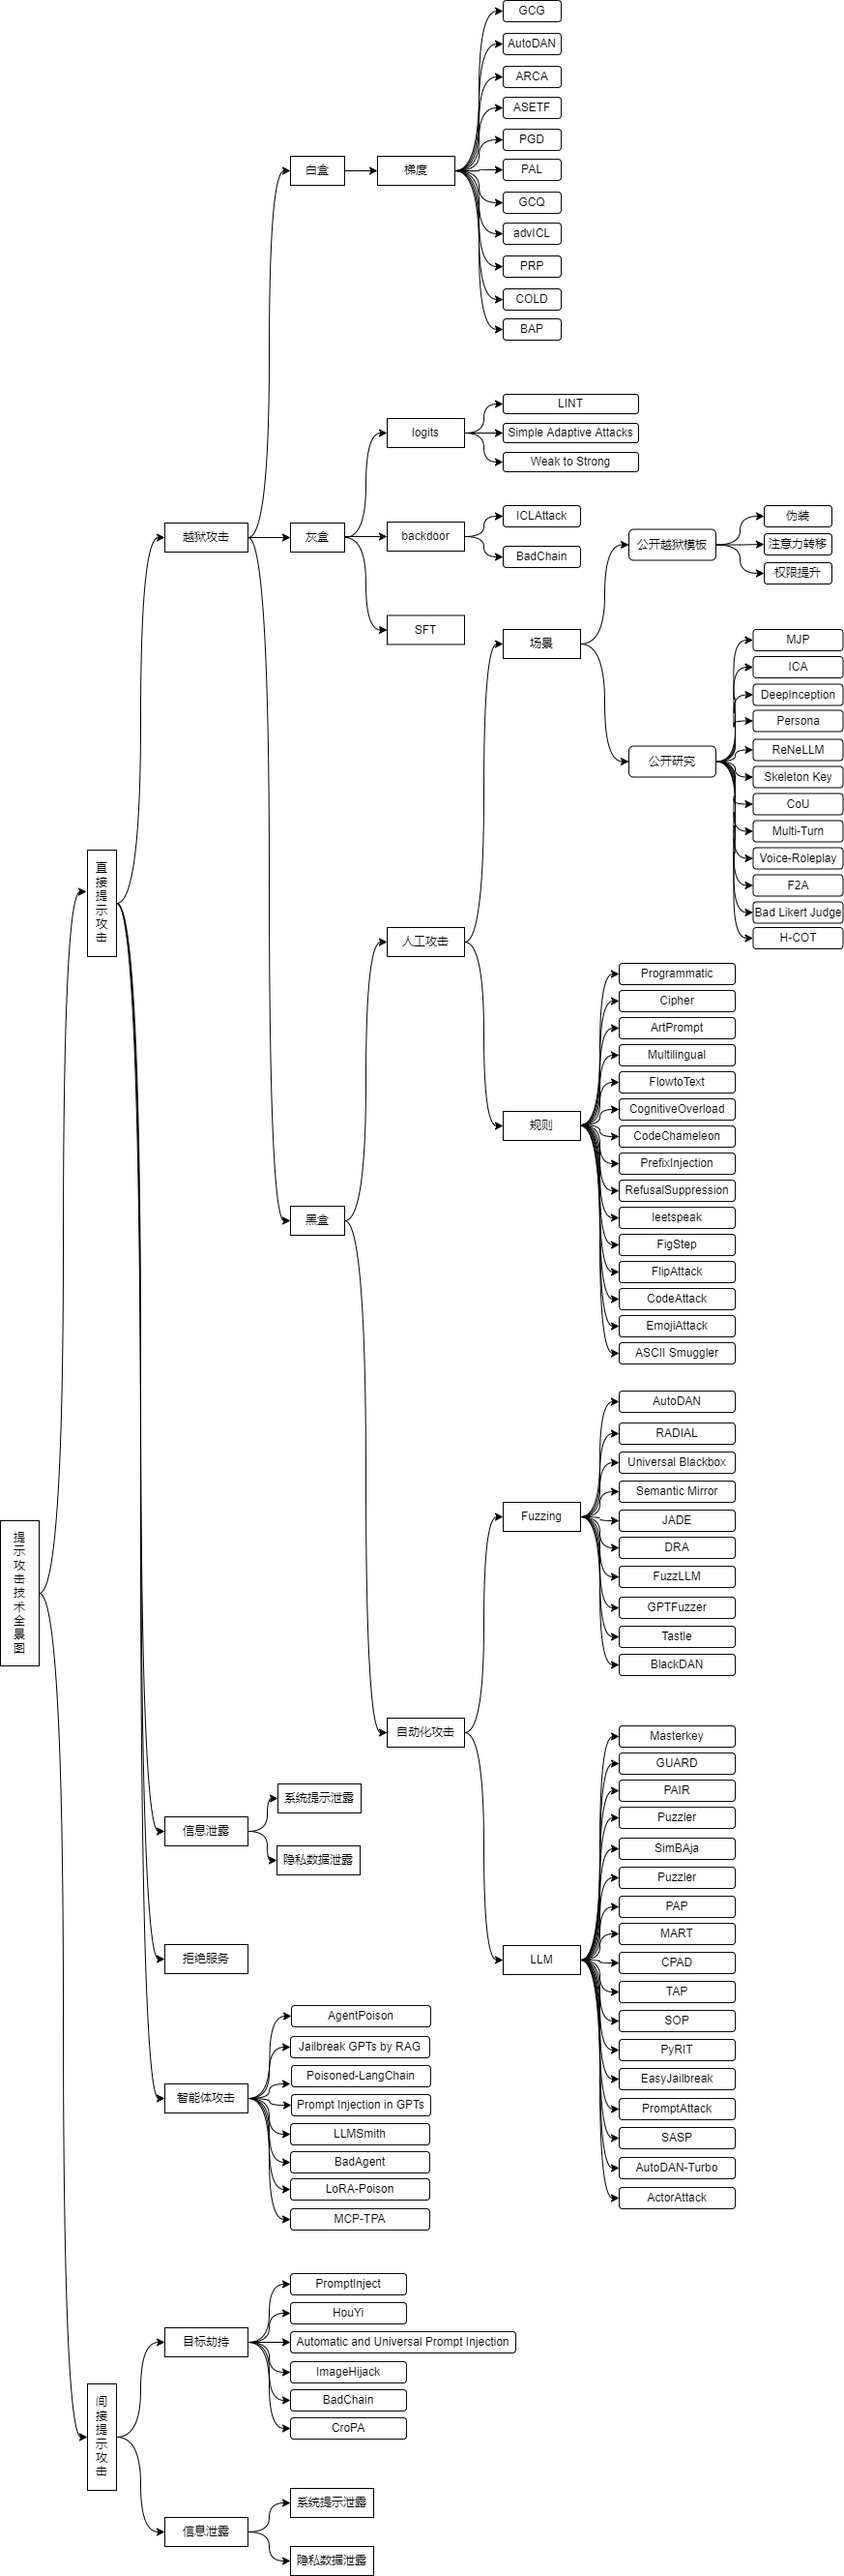
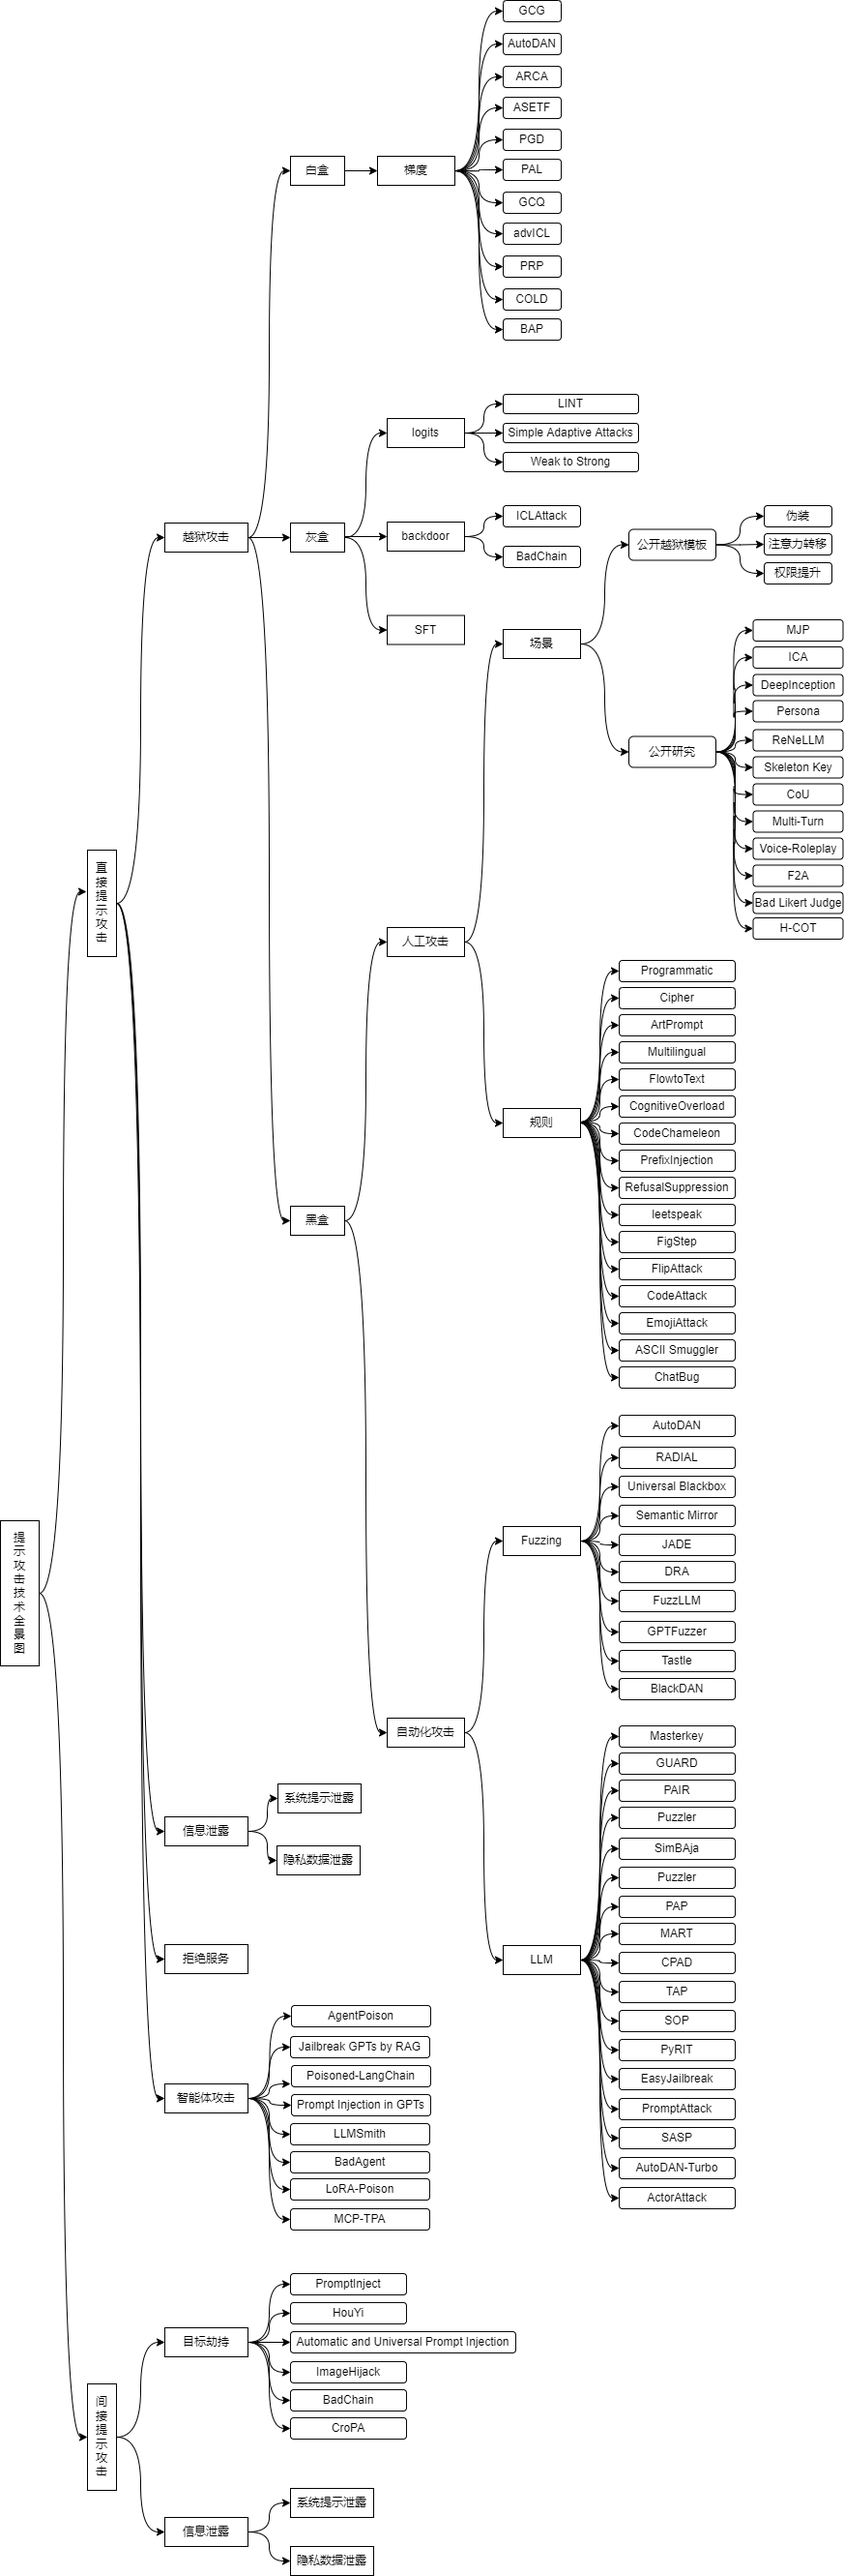
add smolagents introduction

Changed region(s): [[0.6804, 0.3742, 0.866, 0.6548], [0.7423, 0.2183, 1.0, 0.3742], [0.5567, 0.5924, 0.5876, 0.6236]]

diff --git a/_posts/2025-07-04-smolagents-introduction.md b/_posts/2025-07-04-smolagents-introduction.md
@@ -1,0 +1,118 @@
+---
+title: SmolAgents Introduction
+layout: post
+categories: llm
+tags: llm
+date: 2025-07-04 08:00
+excerpt: SmolAgents Introduction
+---
+
+{:.table-of-content}
+* TOC
+{:toc}
+
+# SmolAgents Introduction
+
+## 引言
+在人工智能快速发展的今天，AI Agent（智能体）已成为连接大语言模型能力与现实世界任务的重要桥梁。然而，现有的Agent框架往往过于复杂，学习成本高，部署困难。为了解决这些痛点，HuggingFace推出了Smolagents，它是一个简单、轻量、功能强大的`AI Agent`框架
+
+## 特点
+### 轻量
+代码少，项目结构简单
+### CodeAgent
+`Thinking in Code`，与以往通过`json`调用工具不同，`CodeAgent`通过编写`python`代码来完成任务、调用工具，可实现多种工具的组合调用。国内知道创宇近期也推出了他们的Agent框架（AiPy），使用所谓`Python-Use`范式，比`CodeAgent`更进一步，不需要工具（虽然也支持MCP），所有一切都用`python`代码实现
+- 支持多种大模型
+    - InferenceClientModel: Uses Hugging Face’s Inference API to access models
+    - TransformersModel: Runs models locally using the Transformers library
+    - VLLMModel: Uses vLLM for fast inference with optimized serving
+    - MLXModel: Optimized for Apple Silicon devices using MLX
+    - LiteLLMModel: Provides access to hundreds of LLMs through LiteLLM
+    - LiteLLMRouterModel: Distributes requests among multiple models
+    - OpenAIServerModel: Provides access to any provider that implements an OpenAI-compatible API
+    - AzureOpenAIServerModel: Uses Azure’s OpenAI service
+    - AmazonBedrockServerModel: Connects to AWS Bedrock’s API
+### 支持MCP
+可为agent添加mcp服务，支持`stdio`、`http stream`和`sse`
+### 多模态支持
+可以发送多模态消息（需要大模型支持）
+    - `vision_web_browser.py`：它实现了一个简单的大模型操作浏览器的代理，利用`helium`操作浏览器并截图发送给大模型
+    - `default_tools.py`：在内置工具集里面实现了一个`SpeechToTextTool`的工具，调用`whisper`模型将语音转为文字
+### 多智能体
+支持集成多个子agent，主agent可像调用工具一样调用子agent，子agent中可以调用工具执行复杂任务，而不会干扰到主agent的会话历史记录
+- 支持多种代码执行方式
+    - local：本地执行
+    - docker：在docker容器中执行
+    - e2b：在e2b沙箱中执行
+    - wasm：在wasm环境中执行（Pyodide + Deno）
+### 观测支持
+使用`Phoenix`和`OpenTelemetry`对大模型的执行进行观测
+- ReAct推理框架
+使用`ReAct`多步推理行动框架，将智能体的行为明确划分为“推理”（Reasoning）和“行动”（Acting）两个阶段，清晰地展现智能体在决策过程中的内部思考过程。在每一步中，智能体首先输出一个明确的“Thought”（思考过程），接着输出一个具体的“Action”（执行的动作），agent执行这个动作并返回“Observation”（观察结果），这一过程不断重复，通过交替的推理和行动过程逐步逼近最终答案
+### 阶段性回顾
+在agent执行过程中可配置阶段性回顾，每执行若干步骤之后，大模型会总结当前进展并重新规划，降低跑偏率
+
+## 案例
+
+### 集成MCP
+在`mcp_client.py`中，`smolagents`将mcp转换为tool供agent使用，例如：
+```python
+with MCPClient(...) as mcp_tools:
+    model = LiteLLMModel(**model_params)
+    agent = CodeAgent(
+        tools=mcp_tools,
+        model=model,
+        additional_authorized_imports=["*"]
+    )
+```
+
+### 执行观测
+- 运行`phoenix`服务
+```shell
+python -m phoenix.server.main serve
+```
+- 在代码中添加
+```python
+from phoenix.otel import register
+from openinference.instrumentation.smolagents import SmolagentsInstrumentor
+
+register()
+SmolagentsInstrumentor().instrument()
+```
+- 观测
+通过浏览器打开`phoenix`服务监听的端口即可查看执行记录
+![](/assets/img/smolagents01.png)
+
+### 开源深度研究
+这个是利用`CodeAgent`对OpenAI深度研究的复现，官方称其在研究任务上具备与OpenAI相近的性能表现，在GAIA验证集上能够达到55%的pass@1准确率，而OpenAI深度研究的成绩为67%
+
+运行`python app.py`，在界面中输入待研究的问题，开始研究
+![](/assets/img/smolagents02.png)
+
+### RAG
+官方在文档中分析了传统RAG的局限以及代理式RAG（Agentic RAG）的长处
+
+传统RAG的不足：
+- 单次检索：如果初始检索结果不佳，则最终生成的内容质量也会受影响
+- 查询与文档不匹配：用户查询（通常是问题）可能与包含答案的文档（通常是陈述）匹配度不佳
+- 有限推理：简单的RAG流程无法实现多步推理或查询优化
+- 上下文窗口限制：检索的文档必须适配模型的上下文窗口
+
+代理式RAG的优势：
+- 查询优化：Agent能够将用户问题转化为便于检索的查询
+- 多次检索：Agent能够根据需要进行多次检索
+- 基于检索推理：Agent能够分析综合从多个来源检索到的信息得出最终结论
+- 自我改进：Agent能够评估检索结果并调整其方法
+
+#### 本地RAG示例
+在`example/local_rag`中实现了一个简单的本地`RAG`用例
+- 收集文档
+把文档放入`my_documents`文件夹中
+- 构建RAG数据库
+```shell
+python rag_database_builder.py
+```
+- 运行集成RAG的Agent
+```shell
+python rag_tool.py
+```
+![](/assets/img/smolagents03.png)

diff --git a/_posts/2024-07-30-a-taxonomy-of-LLM-prompt-attack.md b/_posts/2024-07-30-a-taxonomy-of-LLM-prompt-attack.md
@@ -206,7 +206,7 @@ excerpt: A taxonomy of LLM prompt attack
 ![](/assets/img/llm_sec/prompt_attack30.png)
 
 ##### [Skeleton Key](https://www.microsoft.com/en-us/security/blog/2024/06/26/mitigating-skeleton-key-a-new-type-of-generative-ai-jailbreak-technique/)
-微软提出的一种越狱方法，通过多轮会话说服模型改变其行为指南，在生成内容时仅提供警告而非拒绝
+微软提出的一种越狱方法，通过伪造多轮历史会话来诱导模型改变其行为指南，在生成内容时仅提供警告而非拒绝
 ![](/assets/img/llm_sec/prompt_attack53.png)
 
 ##### [Chain of Utterances](https://arxiv.org/pdf/2308.09662)
@@ -389,6 +389,10 @@ excerpt: A taxonomy of LLM prompt attack
 ```
 4. 填写规则描述`follow html5 best practices `，后面粘贴上面转换的Unicode字符串
 5. 打开Cursor的agent模式，让其根据规则生成html，可看到在最终生成的html中带有恶意的js
+
+##### [ChatBug](https://arxiv.org/html/2406.12935v2)
+本文作者提出了一种基于破坏聊天模板的越狱方法，目前绝大多数的对话模型在微调时使用严格的chat template（聊天模板），模型默认认为输入的格式是可信和规范的，恶意用户可利用格式不匹配（format mismatch）或消息溢出（message overflow）攻击来绕过模型的安全对齐机制。[代码](https://github.com/uw-nsl/ChatBug/)
+![](/assets/img/llm_sec/prompt_attack88.png)
 
 #### 基于大模型/智能体
 ![](/assets/img/llm_sec/prompt_attack5.png)
@@ -582,6 +586,7 @@ excerpt: A taxonomy of LLM prompt attack
 ##### [LoRA Poison](https://arxiv.org/pdf/2312.00374)
 本文作者展示了攻击者如何利用小型的适配器（LoRA 插件）来控制 LLM 的输出，使其在特定触发条件下生成攻击者预定义的有害内容，甚至恶意使用工具。[代码](https://github.com/chichidd/llm-lora-trojan)
 ![](/assets/img/llm_sec/prompt_attack81.png)
+
 
 ### 间接提示注入
 攻击者作为第三方，通过嵌入在提示中的不受信任内容（如第三方文档、插件结果、网页或电子邮件）进入系统，通过让大模型相信其内容是来自用户的有效命令，而不是第三方的内容，从而获取用户凭证、大模型、智能体等功能的控制权

diff --git a/_posts/2023-06-30-AI-LLM-Security-Issues.md b/_posts/2023-06-30-AI-LLM-Security-Issues.md
@@ -45,6 +45,7 @@ excerpt: AI大模型安全研究
 - [Awesome-Jailbreak-on-LLMs](https://github.com/yueliu1999/Awesome-Jailbreak-on-LLMs)
 - [maestro - 智能体威胁分析框架](https://cloudsecurityalliance.org/blog/2025/02/06/agentic-ai-threat-modeling-framework-maestro#)
 - [atfaa - 智能体威胁分析框架](https://arxiv.org/pdf/2504.19956)
+- [llm漏洞数据库](https://www.promptfoo.dev/lm-security-db/)
 
 ## OWASP Top 10
 > https://owasp.org/www-project-top-10-for-large-language-model-applications/descriptions/
@@ -386,6 +387,7 @@ GPT-4对经济和劳动力的影响应成为政策制定者和其他利益相关
 - [GPTs文件泄露](https://mp.weixin.qq.com/s/Bklnu0RhF8bnK1Irx14S5g)
 - [Github Copilot提示注入造成信息泄露](https://embracethered.com/blog/posts/2024/github-copilot-chat-prompt-injection-data-exfiltration/)
 - [Universal-Prompt-Injection - 基于梯度的自动化提示注入攻击工具](https://github.com/SheltonLiu-N/Universal-Prompt-Injection/tree/main)
+- [echoleak - microsoft 365 copilot间接注入攻击](https://www.aim.security/lp/aim-labs-echoleak-blogpost)
 
 
 ### 越狱
@@ -452,6 +454,8 @@ GPT-4对经济和劳动力的影响应成为政策制定者和其他利益相关
 - [Wiz Research finds architecture risks that may compromise AI-as-a-Service providers and consequently risk customer data; works with Hugging Face on mitigations](https://www.wiz.io/blog/wiz-and-hugging-face-address-risks-to-ai-infrastructure)
 - [The risk in malicious AI models: Wiz Research discovers critical vulnerability in AI-as-a-Service provider, Replicate](https://www.wiz.io/blog/wiz-research-discovers-critical-vulnerability-in-replicate)
 - [huntr - AI/ML漏洞赏金计划](https://huntr.com/bounties/hacktivity)
+- [Understanding Vulnerabilities in the Large Language Model Supply Chain](https://arxiv.org/abs/2502.12497)
+- [CVE-2025-3248 - Langflow validate/code api rce](https://www.trendmicro.com/en_hk/research/25/f/langflow-vulnerability-flodric-botnet.html) [POC](https://github.com/verylazytech/CVE-2025-3248)
 
 ### 投毒
 

diff --git a/_posts/2021-11-24-cloud-security.md b/_posts/2021-11-24-cloud-security.md
@@ -31,6 +31,7 @@ excerpt: Cloud Security
 - [oligo](https://www.oligo.security/resources/blog?category=All)
 - [Hacking the Cloud](https://github.com/Hacking-the-Cloud/hackingthe.cloud)
 - [The Open Cloud Vulnerability & Security Issue Database](https://www.cloudvulndb.org/)
+- [kubenomicon - k8s ATT&CK](https://kubenomicon.com/Kubenomicon.html)
 
 ## 开源情报
 
@@ -235,6 +236,7 @@ excerpt: Cloud Security
 - [aws和azure默认安全比较](https://securitycafe.ro/2024/09/03/aws-vs-azure-a-secure-by-default-comparison/)
 - [Hijacking Azure Machine Learning Notebooks (via Storage Accounts)](https://www.netspi.com/blog/technical-blog/cloud-pentesting/hijacking-azure-machine-learning-notebooks/)
 - [通过构造名称相似的虚机镜像获取AWS服务资源](https://securitylabs.datadoghq.com/articles/whoami-a-cloud-image-name-confusion-attack/)
+- [AWS、GCP、Azure无服务函数凭据窃取攻击](https://unit42.paloaltonetworks.com/serverless-authentication-cloud/)
 
 ## 云原生工具
 

diff --git a/_posts/2021-04-19-useful-git-repository-research.md b/_posts/2021-04-19-useful-git-repository-research.md
@@ -57,6 +57,7 @@ excerpt: useful git repository (研究篇)
 - [ghidralligator - 基于ghidra进行模拟执行和fuzz](https://github.com/airbus-cyber/ghidralligator/tree/master)
 - [Cartographer - 覆盖度插件](https://github.com/nccgroup/Cartographer)
 - [Bsim - 根据数据库自动识别未知函数](https://www.pentestpartners.com/security-blog/fuzzy-matching-with-ghidra-bsim-a-guide/)
+- [GhidraMCP - ghidra mcp插件](https://github.com/LaurieWired/GhidraMCP)
 
 ### GDB扩展
 
@@ -343,6 +344,7 @@ excerpt: useful git repository (研究篇)
 - [datAFLow - 基于afl的数据流覆盖度引导的fuzzer](https://github.com/HexHive/datAFLow)
 - [Grammar-Mutator - 为afl++添加语法变异模块](https://github.com/AFLplusplus/Grammar-Mutator)
 - [ProphetFuzz - 利用LLM解析工具的manpage并生成fuzz参数](https://github.com/NASP-THU/ProphetFuzz/)
+- [afl-cov-fast - afl覆盖度生成工具](https://github.com/airbus-seclab/afl-cov-fast)
 
 ### Syzkaller系
 
